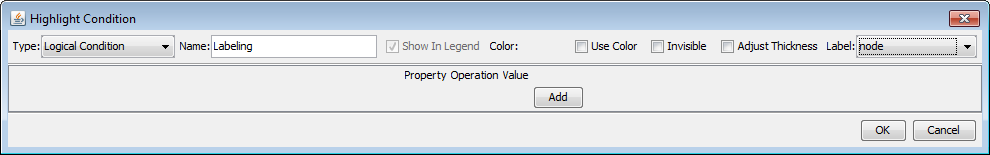
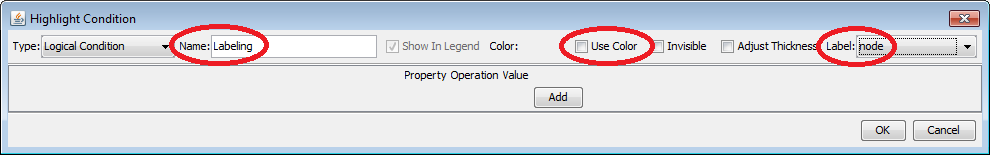
highlighting tutorial committed

diff --git a/GitHubPages/documents/foodchainlab_highlighting/highlighting.tex b/GitHubPages/documents/foodchainlab_highlighting/highlighting.tex
@@ -30,7 +30,7 @@
   		\includegraphics[height=0.6\textheight]{2.png}
 	\end{center}
 	\begin{itemize}
-		\item
+		\item Here you can see a small delivery graph with three outbreak locations (red stations) in the lower part.
 	\end{itemize}
 \end{frame}
 
@@ -40,7 +40,8 @@
   		\includegraphics[height=0.6\textheight]{3.png}
 	\end{center}
 	\begin{itemize}
-		\item
+		\item Let's now change the color of the outbreak stations.
+		\item Right click in the graph and select \textbf{Station Highlighting $>$ Edit}.
 	\end{itemize}
 \end{frame}
 
@@ -50,7 +51,8 @@
   		\includegraphics[height=0.6\textheight]{4.png}
 	\end{center}
 	\begin{itemize}
-		\item
+		\item A dialog with all defined highlighting conditions will pop up.
+		\item Double click on the \textbf{Outbreak} condition to edit it.
 	\end{itemize}
 \end{frame}
 
@@ -60,7 +62,10 @@
   		\includegraphics[width=0.9\textwidth]{5.png}
 	\end{center}
 	\begin{itemize}
-		\item
+		\item A new dialog for editing the outbreak condition will pop up.
+		\item In this dialog you can also change what stations the highlighting should be applied to.
+		\item Currently it is applied on all station with "Weight" $>$ 0. You can add other expressions by pressing the \textbf{Add} button on the right. These expressions can be combined via "And" or "Or".
+		\item To edit the color click red square next to \textbf{Color}.
 	\end{itemize}
 \end{frame}
 
@@ -70,7 +75,7 @@
   		\includegraphics[height=0.6\textheight]{6.png}
 	\end{center}
 	\begin{itemize}
-		\item
+		\item In the color chooser dialog select turquoise and press \textbf{OK}.
 	\end{itemize}
 \end{frame}
 
@@ -80,7 +85,8 @@
   		\includegraphics[width=0.9\textwidth]{7.png}
 	\end{center}
 	\begin{itemize}
-		\item
+		\item The square next to \textbf{Color} should be turquoise now.
+		\item Press \textbf{OK}.
 	\end{itemize}
 \end{frame}
 
@@ -90,7 +96,7 @@
   		\includegraphics[height=0.6\textheight]{8.png}
 	\end{center}
 	\begin{itemize}
-		\item
+		\item In the dialog showing all highlighting conditions press \textbf{OK} to apply your changes.
 	\end{itemize}
 \end{frame}
 
@@ -100,7 +106,7 @@
   		\includegraphics[height=0.6\textheight]{9.png}
 	\end{center}
 	\begin{itemize}
-		\item
+		\item The outbreak stations in the delivery graph should now be turquoise.
 	\end{itemize}
 \end{frame}
 
@@ -110,7 +116,8 @@
   		\includegraphics[height=0.6\textheight]{10.png}
 	\end{center}
 	\begin{itemize}
-		\item
+		\item Now we want to add labels to all stations in the graph.
+		\item Right click in the graph and select \textbf{Station Highlighting $>$ Edit}.
 	\end{itemize}
 \end{frame}
 
@@ -120,7 +127,8 @@
   		\includegraphics[height=0.6\textheight]{11.png}
 	\end{center}
 	\begin{itemize}
-		\item
+		\item We add the labeling as a new highlight condition.
+		\item Press \textbf{Add} to add a new condition.
 	\end{itemize}
 \end{frame}
 
@@ -130,7 +138,7 @@
   		\includegraphics[width=0.9\textwidth]{12.png}
 	\end{center}
 	\begin{itemize}
-		\item
+		\item Add dialog will show up where you can configure the desired highlight condition.		
 	\end{itemize}
 \end{frame}
 
@@ -140,7 +148,7 @@
   		\includegraphics[width=0.9\textwidth]{13.png}
 	\end{center}
 	\begin{itemize}
-		\item
+		\item Since we want to use labels for all stations, we do not an expression. Therefore click on \textbf{Remove} to remove the predefined expression.
 	\end{itemize}
 \end{frame}
 
@@ -150,7 +158,10 @@
   		\includegraphics[width=0.9\textwidth]{14.png}
 	\end{center}
 	\begin{itemize}
-		\item
+		\item Set the \textbf{Name} to "Labeling" (just for documentation).
+		\item Uncheck \textbf{Use Color}, since we just want to create labels with coloring.
+		\item Set the \textbf{Label} to "node", since that is the column with station names.
+		\item Press \textbf{OK} to create the highlight condition.
 	\end{itemize}
 \end{frame}
 
@@ -160,7 +171,8 @@
   		\includegraphics[height=0.6\textheight]{15.png}
 	\end{center}
 	\begin{itemize}
-		\item
+		\item In the dialog with all highlight conditions you should now see a new condition "Labeling".
+		\item Press \textbf{OK} to apply the changes.
 	\end{itemize}
 \end{frame}
 
@@ -170,7 +182,7 @@
   		\includegraphics[height=0.6\textheight]{16.png}
 	\end{center}
 	\begin{itemize}
-		\item
+		\item In the delivery graph there is now a label next to each station.
 	\end{itemize}
 \end{frame}
 
@@ -180,7 +192,8 @@
   		\includegraphics[height=0.6\textheight]{17.png}
 	\end{center}
 	\begin{itemize}
-		\item
+		\item FoodChain-Lab also allows to color or label deliveries the same way as we already did it for stations.
+		\item To open the dialog for editing delivery highlight conditions right click in the graph and select \textbf{Delivery Highlighting $>$ Edit}.
 	\end{itemize}
 \end{frame}
 
